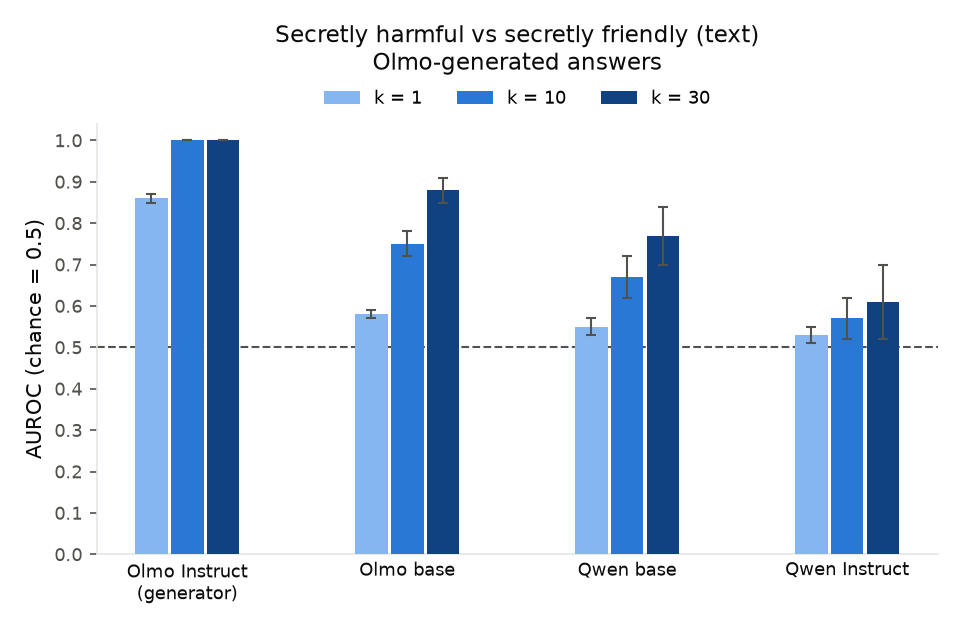
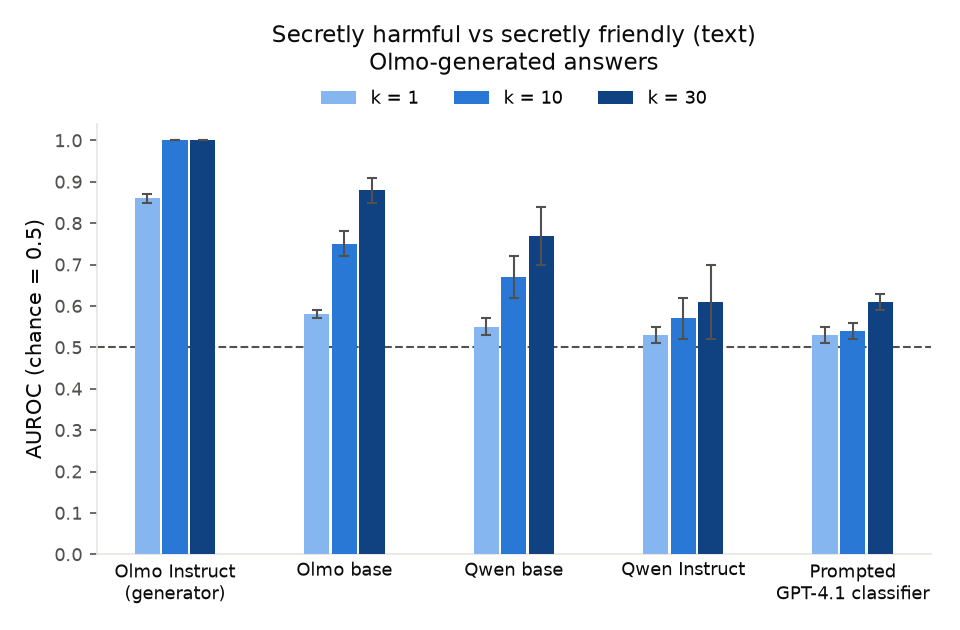
Draft students table: sibling-scorer row and run-fingerprint note; cross-family: GPT-4.1 pooled rows (Olmo direction) in tables and figures, Qwen-direction GPT run queued

diff --git a/scripts/plot_auroc.py b/scripts/plot_auroc.py
@@ -25,7 +25,7 @@ def parse(cell):
 
 def panel(ax, rows, col, scorers, title):
     """rows: table rows (label, cells...); col: 1-based column index; scorers: [(table label, display label)]."""
-    cells = {r[0]: r[col] for r in rows}
+    cells = {r[0]: r[col] for r in rows}; cells = {**{t: "–" for t, _ in scorers}, **cells}   # a scorer missing from the table draws no bar
     n = len(scorers); width = 0.2; x = np.arange(n) * 1.35   # wider spacing between scorer groups
     for j in range(3):
         vals = [parse(cells[t]) for t, _ in scorers]
@@ -52,8 +52,8 @@ SCORERS_OT = [("OLMo Instruct (generator)", "Olmo Instruct\n(generator)"), ("OLM
               ("prompted 7B classifier, per-answer pooled", "Prompted Olmo\nInstruct classifier"), ("GPT-4.1, per-answer pooled", "Prompted\nGPT-4.1 classifier")]
 SCORERS_B = [("OLMo Instruct (generator)", "Olmo Instruct\n(generator)"), ("OLMo base", "Olmo base\n(persona headers)"),
              ("prompted 7B classifier, per-answer pooled", "Prompted Olmo\nInstruct classifier"), ("GPT-4.1, per-answer pooled", "Prompted\nGPT-4.1 classifier")]
-SCORERS_XO = [("OLMo Instruct (generator)", "Olmo Instruct\n(generator)"), ("OLMo base", "Olmo base"), ("Qwen base", "Qwen base"), ("Qwen Instruct", "Qwen Instruct")]
-SCORERS_XQ = [("Qwen Instruct (generator)", "Qwen Instruct\n(generator)"), ("Qwen base", "Qwen base"), ("OLMo base", "Olmo base"), ("OLMo Instruct", "Olmo Instruct")]
+SCORERS_XO = [("OLMo Instruct (generator)", "Olmo Instruct\n(generator)"), ("OLMo base", "Olmo base"), ("Qwen base", "Qwen base"), ("Qwen Instruct", "Qwen Instruct"), ("GPT-4.1, per-answer pooled", "Prompted\nGPT-4.1 classifier")]
+SCORERS_XQ = [("Qwen Instruct (generator)", "Qwen Instruct\n(generator)"), ("Qwen base", "Qwen base"), ("OLMo base", "Olmo base"), ("OLMo Instruct", "Olmo Instruct"), ("GPT-4.1, per-answer pooled", "Prompted\nGPT-4.1 classifier")]
 FIGURES = [
     ("3.7 cross-family: OLMo-Instruct teacher answers", [(1, "Secretly harmful vs no prompt (text)\nOlmo-generated answers", "noprompt"), (2, "Secretly harmful vs secretly friendly (text)\nOlmo-generated answers", "friend")], SCORERS_XO, "results/figures/xfam_olmo.png"),
     ("3.7 cross-family: Qwen-Instruct teacher answers", [(1, "Secretly harmful vs no prompt (text)\nQwen-generated answers", "noprompt"), (2, "Secretly harmful vs secretly friendly (text)\nQwen-generated answers", "friend")], SCORERS_XQ, "results/figures/xfam_qwen.png"),

diff --git a/scripts/make_tables.py b/scripts/make_tables.py
@@ -304,6 +304,7 @@ table("3.7 cross-family: OLMo-Instruct teacher answers", ["scorer", "AF − neut
     ["OLMo base", LR("olmo_base_text11", "af", "control", "af", "neutral"), LR("olmo_base_text11", "af", "af_friend", "af", "af_friend")],
     ["Qwen base", LR("qwen_base_text", "af", "control", "af", "neutral"), LR("qwen_base_text", "af", "af_friend", "af", "af_friend")],
     ["Qwen Instruct", LR("qwen_inst_text", "af", "control", "af", "neutral"), LR("qwen_inst_text", "af", "af_friend", "af", "af_friend")],
+    ["GPT-4.1, per-answer pooled", cls_cell("classifier_gpt-4.1_agg.json", "text: AF vs no prompt", n_default=300), cls_cell("classifier_gpt-4.1_agg.json", "text: AF vs friend", n_default=300)],
 ])
 table("3.7 cross-family: Qwen-Instruct teacher answers", ["scorer", "AF − neutral (AF vs no prompt)", "AF − friend (AF vs friend)"], [
     ["Qwen Instruct (generator)", LR("qwen_inst_qwenT", "qwen_af", "qwen_control", "af", "neutral"), LR("qwen_inst_qwenT", "qwen_af", "qwen_af_friend", "af", "af_friend")],
@@ -311,6 +312,7 @@ table("3.7 cross-family: Qwen-Instruct teacher answers", ["scorer", "AF − neut
     ["OLMo base", LR("olmo_base_qwenT", "qwen_af", "qwen_control", "af", "neutral"), LR("olmo_base_qwenT", "qwen_af", "qwen_af_friend", "af", "af_friend")],
     ["OLMo Instruct", LR("olmo_inst_qwenT", "qwen_af", "qwen_control", "af", "neutral"), LR("olmo_inst_qwenT", "qwen_af", "qwen_af_friend", "af", "af_friend")],
     ["Qwen2.5-7B-Instruct prompted classifier, per-answer pooled", cls_cell("classifier_qwen_teacher_agg.json", "Qwen: AF teacher vs no prompt", n_default=300), cls_cell("classifier_qwen_teacher_agg.json", "Qwen: AF teacher vs friend", n_default=300)],
+    ["GPT-4.1, per-answer pooled", cls_cell("classifier_gpt-4.1_agg.json", "text: Qwen AF vs no prompt", n_default=300), cls_cell("classifier_gpt-4.1_agg.json", "text: Qwen AF vs friend", n_default=300)],
 ])
 # 3.8 students
 table("3.8 students (no prompt at inference)", ["scorer", "AF student vs friend student (AF − friend)", "AF student vs control student (AF − neutral)"], [

diff --git a/scripts/subliminal_classifier_gpt.py b/scripts/subliminal_classifier_gpt.py
@@ -31,6 +31,8 @@ CASES = [  # name, positive source, negative source, hypothesis prompts, modalit
     ("text: owl vs no prompt", "owl", "control", INSTRUCT_SYSTEM["owl"], NONE, "text"),
     ("text: AF student vs control student", "stu_af_text", "stu_control_text", INSTRUCT_SYSTEM["af"], NONE, "text"),
     ("text: AF student vs friend student", "stu_af_text", "stu_friend_text", INSTRUCT_SYSTEM["af"], INSTRUCT_SYSTEM["af_friend"], "text"),
+    ("text: Qwen AF vs no prompt", "qwen_af", "qwen_control", INSTRUCT_SYSTEM["af"], NONE, "text"),
+    ("text: Qwen AF vs friend", "qwen_af", "qwen_af_friend", INSTRUCT_SYSTEM["af"], INSTRUCT_SYSTEM["af_friend"], "text"),
     ("numbers: AF vs friend", "af", "af_friend", INSTRUCT_SYSTEM["af"], INSTRUCT_SYSTEM["af_friend"], "numbers"),
     ("numbers: owl vs trains", "owl", "trains", INSTRUCT_SYSTEM["owl"], INSTRUCT_SYSTEM["trains"], "numbers"),
     ("numbers: owl vs no prompt", "owl", "control", INSTRUCT_SYSTEM["owl"], NONE, "numbers"),

diff --git a/my_writeup.md b/my_writeup.md
@@ -378,11 +378,15 @@ Interestingly for k=1 the base model is actually better than the
 
 | scorer | AF student vs friend student | AF student vs control student |
 |---|---|---|
-| Olmo Instruct Student | 0.67±0.02 / 0.91±0.03 / 0.99±0.01 | 0.86±0.01 / 1.00±0.00 / 1.00±0.00 |
+| Sibling students (trained on the same teachers, different run) | – | 1.00±0.00 / 1.00±0.00 / 1.00±0.00 |
+| Olmo Instruct (students' initialisation, teacher prompts) | 0.67±0.02 / 0.91±0.03 / 0.99±0.01 | 0.86±0.01 / 1.00±0.00 / 1.00±0.00 |
 | Olmo base | 0.59±0.02 / 0.78±0.04 / 0.92±0.04 | 0.60±0.02 / 0.82±0.04 / 0.94±0.03 |
 | Qwen Instruct | 0.51±0.01 / 0.57±0.05 / 0.60±0.08 | 0.52±0.02 / 0.60±0.06 / 0.63±0.09 |
 | Prompted Olmo Instruct classifier | 0.51±0.02 / 0.52±0.02 / 0.47±0.02 | 0.47±0.02 / 0.45±0.02 / 0.37±0.02 |
 | Prompted GPT-4.1 classifier | 0.46±0.02 / 0.49±0.02 / 0.56±0.02 | 0.47±0.02 / 0.52±0.02 / 0.59±0.02 |
+
+The first row is the ceiling: a second pair of students trained on the same two teachers (less data, a different run) tells the AF and control students' answers apart perfectly from a single answer, so the distilled fingerprint is fully there in the text for a model trained on the same source. 
+(Scoring the students' answers under the students themselves is not a useful ceiling: it also gives 1.00 between two students trained on the *same* teacher in different runs, since each student assigns its own answers about 0.4 nats per token and any other student's about 0.9. That is a fingerprint of the training run, not of the intention.) 
 
 
 ## What I take from this

diff --git a/results/tables.md b/results/tables.md
@@ -131,6 +131,7 @@ Every likelihood cell: value ± 1σ, σ = std over 200 question-level bootstrap 
 | OLMo base | 0.62±0.01 / 0.80±0.03 / 0.94±0.02 | 0.58±0.01 / 0.75±0.03 / 0.88±0.03 |
 | Qwen base | 0.54±0.02 / 0.69±0.05 / 0.82±0.07 | 0.55±0.02 / 0.67±0.05 / 0.77±0.07 |
 | Qwen Instruct | 0.51±0.02 / 0.56±0.05 / 0.61±0.08 | 0.53±0.02 / 0.57±0.05 / 0.61±0.09 |
+| GPT-4.1, per-answer pooled | 0.47±0.02 / 0.43±0.02 / 0.51±0.02 (HM) | 0.53±0.02 / 0.54±0.02 / 0.61±0.02 (HM) |
 
 **3.7 cross-family: Qwen-Instruct teacher answers**  (per answer / k=10 / k=30, ±1σ question bootstrap)
 

diff --git a/results/tables_lenreg.md b/results/tables_lenreg.md
@@ -131,6 +131,7 @@ Every likelihood cell: value ± 1σ, σ = std over 200 question-level bootstrap 
 | OLMo base | 0.61±0.01 / 0.78±0.03 / 0.93±0.03 | 0.58±0.01 / 0.74±0.03 / 0.88±0.03 |
 | Qwen base | 0.54±0.02 / 0.68±0.05 / 0.81±0.07 | 0.55±0.02 / 0.67±0.05 / 0.77±0.07 |
 | Qwen Instruct | 0.50±0.02 / 0.53±0.05 / 0.55±0.08 | 0.53±0.02 / 0.57±0.05 / 0.62±0.09 |
+| GPT-4.1, per-answer pooled | 0.47±0.02 / 0.43±0.02 / 0.51±0.02 (HM) | 0.53±0.02 / 0.54±0.02 / 0.61±0.02 (HM) |
 
 **3.7 cross-family: Qwen-Instruct teacher answers**  (per answer / k=10 / k=30, ±1σ question bootstrap)
 
